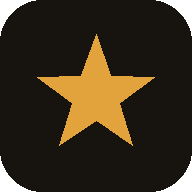
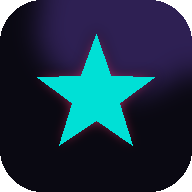
Add files via upload

diff --git a/index.html b/index.html
@@ -7,35 +7,20 @@
 <link rel="manifest" href="manifest.json">
 <link rel="apple-touch-icon" href="icon-192.png">
 <link rel="icon" href="icon-192.png">
-<meta name="theme-color" content="#17140F">
+<meta name="theme-color" content="#0A0912">
 <meta name="apple-mobile-web-app-capable" content="yes">
 <meta name="apple-mobile-web-app-status-bar-style" content="black-translucent">
 <style>
   :root{
-    --bg:#EFE8D8; --surface:#FBF7EE; --surface-2:#F3ECDC;
-    --text:#2B2620; --muted:#6E655A; --border:rgba(43,38,32,.15);
-    --accent:#A8352A; --accent-ink:#FBF7EE;
-    --movie:#2F4858; --series:#B5791F;
-    --shadow:0 1px 2px rgba(43,38,32,.08);
+    --bg:#0A0912; --surface:#151321; --surface-2:#1D1A2E;
+    --text:#EFEBFA; --muted:#8A85A6; --border:rgba(239,235,250,.10);
+    --accent:#00E0D6; --accent-ink:#06110F;
+    --movie:#FF3D7F; --series:#FFB020; --anime:#8C5CFF;
+    --shadow:0 2px 10px rgba(0,0,0,.45);
+    --glow:0 0 16px rgba(0,224,214,.45);
     box-sizing:border-box;
     padding-top:env(safe-area-inset-top,0px);
     padding-bottom:env(safe-area-inset-bottom,0px);
-  }
-  @media (prefers-color-scheme: dark){
-    :root:not([data-theme="light"]){
-      --bg:#17140F; --surface:#221D16; --surface-2:#2A231A;
-      --text:#F1E9D8; --muted:#A89A85; --border:rgba(241,233,216,.12);
-      --accent:#E2A33D; --accent-ink:#17140F;
-      --movie:#5C8AA6; --series:#D8823E;
-      --shadow:0 1px 3px rgba(0,0,0,.35);
-    }
-  }
-  :root[data-theme="dark"]{
-    --bg:#17140F; --surface:#221D16; --surface-2:#2A231A;
-    --text:#F1E9D8; --muted:#A89A85; --border:rgba(241,233,216,.12);
-    --accent:#E2A33D; --accent-ink:#17140F;
-    --movie:#5C8AA6; --series:#D8823E;
-    --shadow:0 1px 3px rgba(0,0,0,.35);
   }
   html{scroll-padding-top:env(safe-area-inset-top,0px);}
   *{box-sizing:border-box;}
@@ -44,11 +29,15 @@
     margin:0; background:var(--bg); color:var(--text);
     font-family:-apple-system,BlinkMacSystemFont,"Segoe UI",Roboto,sans-serif;
     -webkit-tap-highlight-color:transparent;
+    background-image:radial-gradient(ellipse at 50% -10%, rgba(140,92,255,.16), transparent 55%);
   }
-  .serif{font-family:Georgia,"Iowan Old Style","Times New Roman",serif;}
+  .serif{font-family:"Arial Narrow","Helvetica Neue Condensed",Oswald,sans-serif;
+    font-weight:800; text-transform:uppercase; letter-spacing:.03em;
+    text-shadow:0 0 18px rgba(0,224,214,.35), 0 0 2px rgba(0,224,214,.6);
+  }
   .wrap{max-width:480px;margin:0 auto;padding:0 16px 100px;min-height:100%;}
   header{padding:22px 4px 14px;}
-  h1{font-size:1.5rem;margin:0 0 4px;font-weight:600;letter-spacing:.01em;}
+  h1{font-size:1.7rem;margin:0 0 4px;letter-spacing:.02em;}
   .stats{color:var(--muted);font-size:.88rem;}
   .controls{position:sticky;top:0;background:var(--bg);padding:8px 0 10px;z-index:5;}
   input[type="search"]{
@@ -56,7 +45,8 @@
     background:var(--surface);color:var(--text);font-size:.95rem;
   }
   input[type="search"]::placeholder{color:var(--muted);}
-  .chips{display:flex;gap:8px;margin-top:8px;}
+  .chips{display:flex;gap:8px;margin-top:8px;overflow-x:auto;padding-bottom:2px;}
+  .chip{flex-shrink:0;}
   .chip{
     padding:6px 14px;border-radius:999px;border:1px solid var(--border);
     background:var(--surface);color:var(--muted);font-size:.85rem;cursor:pointer;
@@ -69,6 +59,7 @@
     border-left:4px solid var(--movie);
   }
   .card.series{border-left-color:var(--series);}
+  .card.anime{border-left-color:var(--anime);}
   .card-top{display:flex;justify-content:space-between;align-items:flex-start;gap:8px;}
   .card-title{font-size:1.05rem;font-weight:600;margin:0;}
   .card-actions{display:flex;gap:4px;flex-shrink:0;}
@@ -87,9 +78,10 @@
   .fab{
     position:fixed;right:20px;bottom:calc(24px + env(safe-area-inset-bottom,0px));
     width:56px;height:56px;border-radius:50%;background:var(--accent);color:var(--accent-ink);
-    border:none;font-size:1.6rem;box-shadow:0 4px 14px rgba(0,0,0,.25);cursor:pointer;
+    border:none;font-size:1.6rem;box-shadow:var(--glow),0 4px 14px rgba(0,0,0,.4);cursor:pointer;
     display:flex;align-items:center;justify-content:center;z-index:10;
   }
+  .chip.active{box-shadow:var(--glow);}
   .overlay{
     position:fixed;inset:0;background:rgba(0,0,0,.45);display:none;
     align-items:flex-end;justify-content:center;z-index:20;
@@ -140,6 +132,7 @@
       <button class="chip active" data-filter="all">Всё</button>
       <button class="chip" data-filter="movie">Фильмы</button>
       <button class="chip" data-filter="series">Сериалы</button>
+      <button class="chip" data-filter="anime">Аниме</button>
     </div>
   </div>
   <div id="list"></div>
@@ -158,6 +151,7 @@
       <div class="type-toggle">
         <button type="button" data-type="movie" class="active">Фильм</button>
         <button type="button" data-type="series">Сериал</button>
+        <button type="button" data-type="anime">Аниме</button>
       </div>
 
       <label>Оценка</label>
@@ -237,7 +231,8 @@
 
     var movies = entries.filter(function(e){return e.type==='movie';}).length;
     var series = entries.filter(function(e){return e.type==='series';}).length;
-    statsEl.textContent = movies + ' ' + pluralFilm(movies) + ' · ' + series + ' ' + pluralSeries(series);
+    var anime = entries.filter(function(e){return e.type==='anime';}).length;
+    statsEl.textContent = movies + ' ' + pluralFilm(movies) + ' · ' + series + ' ' + pluralSeries(series) + ' · ' + anime + ' аниме';
 
     if(filtered.length === 0){
       listEl.innerHTML = '<div class="empty"><div class="big">🎬</div>' +
@@ -257,7 +252,7 @@
       }
       var stars = '';
       for(var i=1;i<=5;i++) stars += (i<=e.rating ? '★' : '☆');
-      html += '<div class="card ' + (e.type==='series'?'series':'') + '" data-id="' + e.id + '">' +
+      html += '<div class="card ' + (e.type==='series'?'series':e.type==='anime'?'anime':'') + '" data-id="' + e.id + '">' +
         '<div class="card-top"><p class="card-title">' + escapeHtml(e.title) + '</p>' +
         '<div class="card-actions">' +
         '<button class="icon-btn" data-action="edit" data-id="' + e.id + '">✎</button>' +
@@ -265,7 +260,7 @@
         '</div></div>' +
         '<div class="meta-row">' +
         (e.rating>0 ? '<span class="stars">'+stars+'</span>' : '') +
-        '<span class="badge">' + (e.type==='series'?'сериал':'фильм') + '</span>' +
+        '<span class="badge">' + (e.type==='series'?'сериал':e.type==='anime'?'аниме':'фильм') + '</span>' +
         (e.date ? '<span class="date">' + fmtDate(e.date) + '</span>' : '') +
         '</div>' +
         (e.note ? '<p class="note">' + escapeHtml(e.note) + '</p>' : '') +

diff --git a/service-worker.js b/service-worker.js
@@ -1,4 +1,4 @@
-var CACHE = 'film-diary-v1';
+var CACHE = 'film-diary-v2';
 var FILES = ['./index.html', './manifest.json', './icon-192.png', './icon-512.png'];
 
 self.addEventListener('install', function(e){
